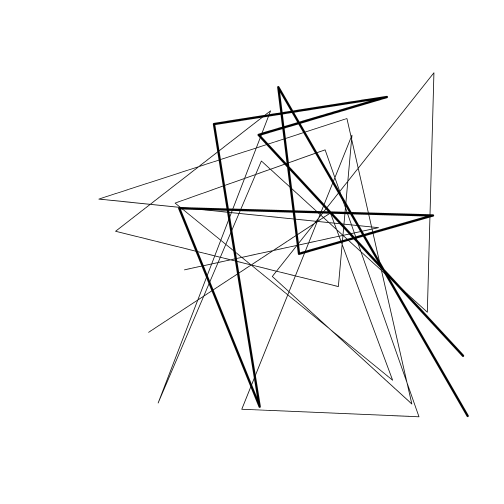
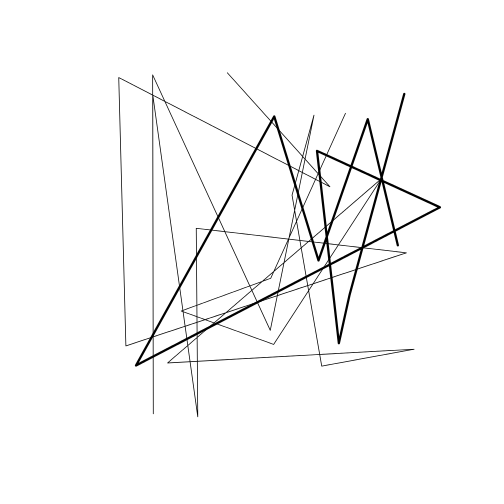
Deploy mhallwor/mhallwor.github.io to github.com/mhallwor/mhallwor.github.io.git:master

diff --git a/_includes/author-profile.html b/_includes/author-profile.html
@@ -84,7 +84,7 @@
       {% if author.orcid %}
         <li>
           <a href="{{ author.orcid }}" itemprop="sameAs">
-            <i class="ai ai-orcid ai-1x" aria-hidden="true"></i> Orcid
+            <i class="ai ai-orcid ai-1x" aria-hidden="true"></i> ORCID
           </a>
         </li>
       {% endif %}

diff --git a/_pages/basics_SpatialPoints.md b/_pages/basics_SpatialPoints.md
@@ -51,7 +51,7 @@ If installing these packages for the first time consider adding <code>dependenci
         
 <br>
 
-<a href="https://raw.githubusercontent.com/mhallwor/mhallwor.github.io/develop/Rscripts/basics_SpatialPoints.R" target="_blank" class="btn btn--info">Download R script</a> Last modified: 2019-08-27 18:39:34
+<a href="https://raw.githubusercontent.com/mhallwor/mhallwor.github.io/develop/Rscripts/basics_SpatialPoints.R" target="_blank" class="btn btn--info">Download R script</a> Last modified: 2019-08-27 19:38:47
 
 <hr>
 
@@ -85,12 +85,12 @@ head(cbind(x_coords,y_coords))
 
 ```
 ##       x_coords y_coords
-## [1,] -88.05060 29.92148
-## [2,] -98.18198 41.13685
-## [3,] -91.81221 39.81274
-## [4,] -96.12924 41.23936
-## [5,] -80.96658 37.39980
-## [6,] -99.76873 31.83708
+## [1,] -81.15579 41.23522
+## [2,] -85.04803 43.49327
+## [3,] -98.81904 35.28933
+## [4,] -82.41287 29.23043
+## [5,] -88.76437 40.62436
+## [6,] -88.72855 35.78699
 ```
 
 Now that we have generated random coordinates we can make those data spatially explicit. We'll use the `SpatialPoints` function in the `sp` package to do that. Before we use the function let's see what arguments we need to pass to `SpatialPoints`.
@@ -124,11 +124,11 @@ str(firstPoints)
 
 ```
 ## Formal class 'SpatialPoints' [package "sp"] with 3 slots
-##   ..@ coords     : num [1:100, 1:2] -88.1 -98.2 -91.8 -96.1 -81 ...
+##   ..@ coords     : num [1:100, 1:2] -81.2 -85 -98.8 -82.4 -88.8 ...
 ##   .. ..- attr(*, "dimnames")=List of 2
 ##   .. .. ..$ : NULL
 ##   .. .. ..$ : chr [1:2] "x_coords" "y_coords"
-##   ..@ bbox       : num [1:2, 1:2] -99.9 25.2 -80.1 44.9
+##   ..@ bbox       : num [1:2, 1:2] -99.7 25.3 -80 45
 ##   .. ..- attr(*, "dimnames")=List of 2
 ##   .. .. ..$ : chr [1:2] "x_coords" "y_coords"
 ##   .. .. ..$ : chr [1:2] "min" "max"
@@ -166,7 +166,7 @@ euclidDist <- sp::spDists(firstPoints,longlat = FALSE)
 ```
 
 ```
-##  num [1:100, 1:100] 0 15.1 10.6 13.9 10.3 ...
+##  num [1:100, 1:100] 0 4.5 18.64 12.07 7.63 ...
 ```
 
 Another option is to calculate the GreatCircle distance. 
@@ -178,7 +178,7 @@ gcDist <- sp::spDists(firstPoints,longlat = TRUE)
 
 
 ```
-##  num [1:100, 1:100] 0 1544 1150 1452 1057 ...
+##  num [1:100, 1:100] 0 407 1677 1337 644 ...
 ```
 
 ![plot of chunk unnamed-chunk-5](/figure/pages/basics_SpatialPoints/unnamed-chunk-5-1.png)

diff --git a/_pages/basics_SpatialLines.md b/_pages/basics_SpatialLines.md
@@ -53,7 +53,7 @@ If installing these packages for the first time consider adding <code>dependenci
         
 <br>
 
-<a href="https://raw.githubusercontent.com/mhallwor/mhallwor.github.io/develop/Rscripts/basics_SpatialLines.R" target="_blank" class="btn btn--info">Download R script</a> Last modified: 2019-08-27 18:39:34
+<a href="https://raw.githubusercontent.com/mhallwor/mhallwor.github.io/develop/Rscripts/basics_SpatialLines.R" target="_blank" class="btn btn--info">Download R script</a> Last modified: 2019-08-27 19:38:47
 
 <hr>
 
@@ -81,12 +81,12 @@ ID <- paste0("line_",1:100)
 
 ```
 ##    x_coords y_coords     ID
-## 1 -80.38805 28.33820 line_1
-## 2 -91.30347 40.13502 line_2
-## 3 -84.45609 42.16049 line_3
-## 4 -93.68828 40.71511 line_4
-## 5 -91.24778 25.62121 line_5
-## 6 -95.54362 36.21967 line_6
+## 1 -83.25046 43.60050 line_1
+## 2 -86.37244 32.14158 line_2
+## 3 -86.98578 29.37401 line_3
+## 4 -88.23336 40.35074 line_4
+## 5 -81.21751 37.12966 line_5
+## 6 -98.56419 28.10259 line_6
 ```
 
 Now that we have the endpoints, we need to create a <code>Line</code> object then convert that to a <code>Lines</code> object and give them an ID then we can finally convert them to <code>SpatialLines</code>. Here, we'll use the first two points for our first line.
@@ -116,7 +116,7 @@ sp_line <- as(points,"SpatialLines")
 ```
 ## class       : SpatialLines 
 ## features    : 1 
-## extent      : -99.9909, -80.1404, 25.08247, 44.21701  (xmin, xmax, ymin, ymax)
+## extent      : -99.87923, -80.19829, 25.17402, 44.80825  (xmin, xmax, ymin, ymax)
 ## crs         : NA
 ```
 
@@ -141,7 +141,7 @@ rgeos::gLength(sp_line)
 ```
 
 ```
-## [1] 1178.647
+## [1] 1109.808
 ```
 
 Another option is to return the great circle distance. The following code calculates the great circle distance along a line and returns the distance in meters. 
@@ -152,7 +152,7 @@ geosphere::lengthLine(sp_line)
 ```
 
 ```
-## [1] 119333334
+## [1] 113137171
 ```
 
 <div style="background-color: #ffffe6; border-radius: 25px; text-align:center; vertical-align: middle; padding: 3px 0; margin: auto; width:600px; box-shadow: 4px 5px #f2f2f2;"> 

diff --git a/_pages/R_basics.md b/_pages/R_basics.md
@@ -518,8 +518,8 @@ str(list.data)
 ##  $ id       : int [1:5] 1 2 3 4 5
 ##  $ names    : chr [1:2] "Dr. Seuss" "Cat in the hat"
 ##  $ DataFrame:'data.frame':	10 obs. of  2 variables:
-##   ..$ starttimes: num [1:10] 0.701 -0.405 0.468 0.631 1.546 ...
-##   ..$ endtimes  : num [1:10] 28.6 21.8 25 28.4 21.4 ...
+##   ..$ starttimes: num [1:10] -0.9878 0.0498 0.5516 0.0621 0.9517 ...
+##   ..$ endtimes  : num [1:10] 27 28.8 23.7 21.8 21.4 ...
 ```
 
 ```r
@@ -535,16 +535,16 @@ list.data
 ## 
 ## $DataFrame
 ##     starttimes endtimes
-## 1   0.70078527 28.59311
-## 2  -0.40503251 21.82164
-## 3   0.46781734 25.04091
-## 4   0.63142622 28.36957
-## 5   1.54630342 21.37107
-## 6  -0.05542582 22.43550
-## 7   1.61517274 21.19606
-## 8   0.17773533 28.93746
-## 9   0.45883702 21.20689
-## 10 -0.97748949 28.03695
+## 1  -0.98777222 27.02743
+## 2   0.04980902 28.81846
+## 3   0.55161714 23.74105
+## 4   0.06209839 21.78212
+## 5   0.95172143 21.41323
+## 6  -1.43025767 21.69773
+## 7   0.86125362 29.43284
+## 8  -0.06410306 24.11398
+## 9  -1.29161825 25.57130
+## 10  0.56665262 22.35991
 ```
 Accessing data stored within lists can be a little tricky.    
 Here is an example of how to extract the 5th element of starttime in the DataFrame object in our list.data object. 
@@ -554,7 +554,7 @@ list.data[[3]][5,1]
 ```
 
 ```
-## [1] 1.546303
+## [1] 0.9517214
 ```
 
 ```r
@@ -562,7 +562,7 @@ list.data[[3]]$starttime[5]
 ```
 
 ```
-## [1] 1.546303
+## [1] 0.9517214
 ```
 
 ```r
@@ -570,9 +570,9 @@ list.data$DataFrame$starttime[5]
 ```
 
 ```
-## [1] 1.546303
+## [1] 0.9517214
 ```
 
 <a href="#TOP">back to top</a>
 
-<a href="https://raw.githubusercontent.com/mhallwor/mhallwor.github.io/develop/Rscripts/R_basics.R" target="_blank" class="btn btn--info">Download R script</a> Last modified: 2019-08-27 18:39:34
+<a href="https://raw.githubusercontent.com/mhallwor/mhallwor.github.io/develop/Rscripts/R_basics.R" target="_blank" class="btn btn--info">Download R script</a> Last modified: 2019-08-27 19:38:47

diff --git a/_pages/advanced_Rasters.md b/_pages/advanced_Rasters.md
@@ -394,7 +394,7 @@ You may notice that some values are -Inf or Inf. We'll ignore that for now becau
 ## resolution : 231.6564, 231.6564  (x, y)
 ## extent     : -11119505, -10007555, 3335852, 4447802  (xmin, xmax, ymin, ymax)
 ## crs        : +proj=sinu +lon_0=0 +x_0=0 +y_0=0 +a=6371007.181 +b=6371007.181 +units=m +no_defs 
-## source     : /tmp/RtmpOEcH93/raster/r_tmp_2019-08-27_185018_20637_12399.grd 
+## source     : /tmp/RtmpP38EHr/raster/r_tmp_2019-08-27_194648_20009_28283.grd 
 ## names      : layer 
 ## values     : -201, 201  (min, max)
 ```
@@ -428,7 +428,7 @@ Sys.time()-a
 ```
 
 ```
-## Time difference of 29.47604 secs
+## Time difference of 28.3467 secs
 ```
 NDVI values should range in the values between -1 and 1. Let's make sure that's the case by setting the upper and lower values manually.
 
@@ -460,7 +460,7 @@ diff_ndvi <- NDVI_2017-NDVI_2000
 ## resolution : 231.6564, 231.6564  (x, y)
 ## extent     : -11119505, -8895604, 3335852, 4447802  (xmin, xmax, ymin, ymax)
 ## crs        : +proj=sinu +lon_0=0 +x_0=0 +y_0=0 +a=6371007.181 +b=6371007.181 +units=m +no_defs 
-## source     : /tmp/RtmpOEcH93/raster/r_tmp_2019-08-27_185252_20637_68739.grd 
+## source     : /tmp/RtmpP38EHr/raster/r_tmp_2019-08-27_194916_20009_58919.grd 
 ## names      : layer 
 ## values     : -2, 2  (min, max)
 ```
@@ -542,4 +542,4 @@ plotRGB(ndvi_brick)
 <a href="#TOP">Back to top</a>
 
 
-<a href="https://raw.githubusercontent.com/mhallwor/mhallwor.github.io/develop/Rscripts/advanced_Rasters.R" target="_blank" class="btn btn--info">Download R script</a> Last modified: 2019-08-27 18:39:34
+<a href="https://raw.githubusercontent.com/mhallwor/mhallwor.github.io/develop/Rscripts/advanced_Rasters.R" target="_blank" class="btn btn--info">Download R script</a> Last modified: 2019-08-27 19:38:47

diff --git a/_pages/projections.md b/_pages/projections.md
@@ -56,7 +56,7 @@ If installing these packages for the first time consider adding <code>dependenci
 <br>
 <hr> 
 
-<a href="https://raw.githubusercontent.com/mhallwor/mhallwor.github.io/master/Rscripts/projections.R" target="_blank" class="btn btn--info">Download R script</a> Last modified: 2019-08-27 18:39:34
+<a href="https://raw.githubusercontent.com/mhallwor/mhallwor.github.io/master/Rscripts/projections.R" target="_blank" class="btn btn--info">Download R script</a> Last modified: 2019-08-27 19:38:47
 
 # Projections
 The reason we need projections is so that we can map a three dimensional surface - like the earth in two dimensional space. Unfortunately, not all properties of the 3D surface are maintained when plotting in 2D space. Attributes of the 3D surface such as area, distance, shape and direction are distorted when creating a 2D map. Projections define the way we distort the 3D surface in order to render it in 2D. The projection is the mathmatical equation used to 'flatten' the world. Every time we create a map we distort the true surface in some fashion. Different projections preserve different aspects of the 3D properties. Therefore, knowing which projections to use is important when doing spatial analyses. For example, if you're looking to create a map that looks 'correct' a conformal projection might be used as these types of projections preserve shape. If you're looking to make accurate distance measurements on a surface projections in the equidistant class are appropriate. Take a look at this <a href = "http://projections.mgis.psu.edu/" target="_blank">interactive map</a> that shows different projections - be sure to turn on the distortion ellipse so you can see how distortion changes. 

diff --git a/_pages/activities_ExtractRasterValues.md b/_pages/activities_ExtractRasterValues.md
@@ -64,7 +64,7 @@ If installing these packages for the first time consider adding <code>dependenci
 </div>
         
 <br>
-<a href="https://raw.githubusercontent.com/mhallwor/mhallwor.github.io/develop/Rscripts/activities_ExtractRasterValues.R" target="_blank" class="btn btn--info">Download R script</a> Last modified: 2019-08-27 18:39:34
+<a href="https://raw.githubusercontent.com/mhallwor/mhallwor.github.io/develop/Rscripts/activities_ExtractRasterValues.R" target="_blank" class="btn btn--info">Download R script</a> Last modified: 2019-08-27 19:38:47
 <hr>
 
 
@@ -278,7 +278,7 @@ Sys.time()-a
 ```
 
 ```
-## Time difference of 2.417571 mins
+## Time difference of 2.366181 mins
 ```
 
 ```r
@@ -291,7 +291,7 @@ Sys.time() - b
 ```
 
 ```
-## Time difference of 25.53629 secs
+## Time difference of 25.3777 secs
 ```
  
 <div style="background-color: #ffffe6; border-radius: 25px; text-align:center; vertical-align: middle; padding: 3px 0; margin: auto; width:600px; box-shadow: 4px 5px #f2f2f2;"> 

diff --git a/_pages/spatial_predicates.md b/_pages/spatial_predicates.md
@@ -57,7 +57,7 @@ If installing these packages for the first time consider adding <code>dependenci
         
 <br>
 
-<a href="https://raw.githubusercontent.com/mhallwor/mhallwor.github.io/develop/Rscripts/spatial_predicates.R" target="_blank" class="btn btn--info">Download R script</a> Last modified: 2019-08-27 18:39:34
+<a href="https://raw.githubusercontent.com/mhallwor/mhallwor.github.io/develop/Rscripts/spatial_predicates.R" target="_blank" class="btn btn--info">Download R script</a> Last modified: 2019-08-27 19:38:47
 
 <hr> 
 
@@ -200,7 +200,7 @@ Sys.time()-a
 ```
 
 ```
-## Time difference of 6.370044 secs
+## Time difference of 5.889408 secs
 ```
 
 ```r
@@ -212,7 +212,7 @@ Sys.time()-a
 ```
 
 ```
-## Time difference of 7.793862 secs
+## Time difference of 7.433618 secs
 ```
 
 ![plot of chunk unnamed-chunk-12](/figure/pages/spatial_predicates/unnamed-chunk-12-1.png)

diff --git a/_pages/Tidyverse_intro.md b/_pages/Tidyverse_intro.md
@@ -37,7 +37,7 @@ If installing these packages for the first time consider adding <code>dependenci
 <br>
 This activity will integrate spatial data with the tidyverse. See <a href = "{{ site.baseurl }}/_pages/tidyverse_basics" target="_blank">introduction to the tidyverse</a> for more information on the tidyverse.
 
-<a href="https://raw.githubusercontent.com/mhallwor/mhallwor.github.io/develop/Rscripts/Tidyverse_intro.R" target="_blank" class="btn btn--info">Download R script</a> Last modified: 2019-08-27 18:39:34
+<a href="https://raw.githubusercontent.com/mhallwor/mhallwor.github.io/develop/Rscripts/Tidyverse_intro.R" target="_blank" class="btn btn--info">Download R script</a> Last modified: 2019-08-27 19:38:47
 
 ## The tidyverse and spatial data
 

diff --git a/_pages/01_getting_started.md b/_pages/01_getting_started.md
@@ -114,4 +114,4 @@ Running Windows and interested in MODIS data? You will need <strong>OSGeo4W</str
 
 *Setup instructions are based on a very helpful [post by Nick Eubank](http://www.nickeubank.com/wp-content/uploads/2015/10/RGIS1_SpatialDataTypes_part0_setup.html)*
 
-<a href="https://raw.githubusercontent.com/mhallwor/mhallwor.github.io/develop/Rscripts/getting_started.R" target="_blank" class="btn btn--info">Download R script</a> Last modified: 2019-08-27 18:39:34
+<a href="https://raw.githubusercontent.com/mhallwor/mhallwor.github.io/develop/Rscripts/getting_started.R" target="_blank" class="btn btn--info">Download R script</a> Last modified: 2019-08-27 19:38:47

diff --git a/website/CV.md b/website/CV.md
@@ -65,6 +65,7 @@ Plymouth State University, Plymouth, NH.<br>Minor: Chemistry</p>
 
 <h2><b>Awards / Grants</b></h2>
 <ul style="font-size: 12pt">
+<li>International Research Partnership Award from Wings Across the Americas, 2019 - Migratory Dragonfly Partnership </li>
 <li>Smithsonian Institution's Competitive Grants Program, 2018 - Sillett, T. S. & M. T. Hallworth - <b>$55,744</b></li>
 <li>Smithsonian Institution's Competitive Grants Program, 2017 - Sillett, T. S., T. B. Ryder & M. T. Hallworth - <b>$54,000</b></li>
 <li>Postdoctoral Travel Award - AOS:SCO 2017 Joint Meeting, 2017 - M. T. Hallworth - <b>$320</b></li>

diff --git a/_pages/activities_GenerateTerritories.md b/_pages/activities_GenerateTerritories.md
@@ -58,7 +58,7 @@ If installing these packages for the first time consider adding <code>dependenci
         
 <br>
 
-<a href="https://raw.githubusercontent.com/mhallwor/mhallwor.github.io/develop/Rscripts/activities_GenerateTerritories.R" target="_blank" class="btn btn--info">Download R script</a> Last modified: 2019-08-27 18:39:34
+<a href="https://raw.githubusercontent.com/mhallwor/mhallwor.github.io/develop/Rscripts/activities_GenerateTerritories.R" target="_blank" class="btn btn--info">Download R script</a> Last modified: 2019-08-27 19:38:47
 
 <hr> 
 
